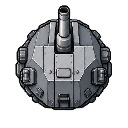
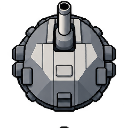
Simplify naval gun sprite details

diff --git a/doc/design.md b/doc/design.md
@@ -292,3 +292,5 @@
 ### GUN画像の回転中心修正
 
 - 7種類を短い砲身のデフォルメ画像に描き直し、砲塔基部の中心を128×128px画像の中央（64,64）に合わせる。Spriteのanchor=(0.5,0.5)で砲塔中心を軸に回転する。配置範囲・ID・保存座標は維持する。
+
+- GUN全7種のリベット・細かな機構・細密な陰影を減らし、大きなパネルと少数の陰影で読み取りやすくした。128×128px、透過、砲塔中心の回転軸を維持する。
